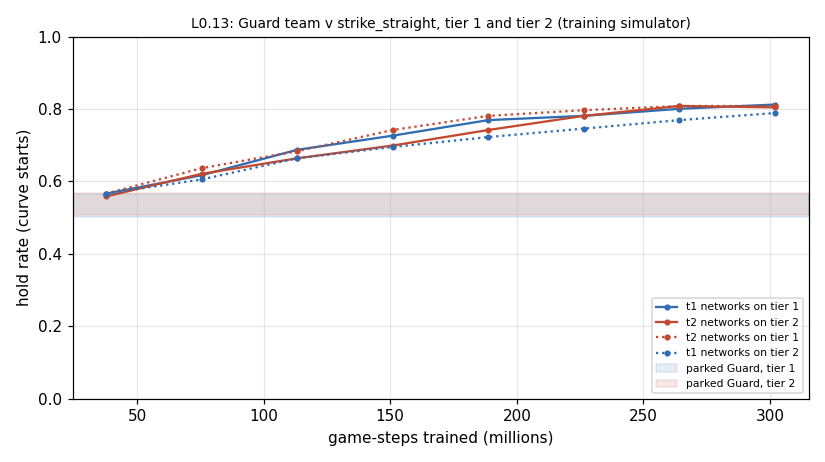
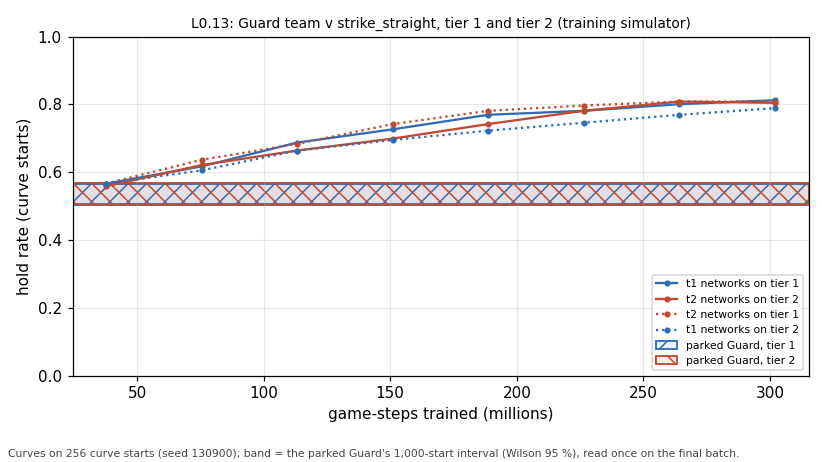
svg_training L0.13: QC fixes (readings bounded, physics-check readings, figure note and outlined bands)
curve_figure (test first, tests/test_ste_l013_figure.py) outlines and hatches both parked bands and notes on the image
that the curves use 256 curve starts (seed 130900) and the band the parked Guard's 1,000-start interval; the docs copy
is re-drawn from the arms' results.json. T53, PLAN and DISCUSSION bound the tier agreement to one seed, one opponent,
one start set. No number changed.

diff --git a/svg_training/scripts/ste_tier2_l013.py b/svg_training/scripts/ste_tier2_l013.py
@@ -960,15 +960,20 @@ def curve_figure(c1: list, c2: list, parked2: dict, parked1: dict, path: Path) -
         if pts:
             ax.plot([p["game_steps"] / 1e6 for p in pts], [p["rate"] for p in pts], style, marker="o", ms=3,
                     color=colour, label=name)
-    for parked, colour, name in ((parked1, "#2f6db3", "parked Guard, tier 1"), (parked2, "#c2492f", "parked Guard, tier 2")):
-        ax.axhspan(parked["ci"][0], parked["ci"][1], color=colour, alpha=0.12, label=name)
+    for parked, colour, name, hatch in ((parked1, "#2f6db3", "parked Guard, tier 1", "//"),
+                                        (parked2, "#c2492f", "parked Guard, tier 2", "\\\\")):
+        ax.axhspan(parked["ci"][0], parked["ci"][1], facecolor=matplotlib.colors.to_rgba(colour, 0.10),
+                   edgecolor=colour, linewidth=1.2, hatch=hatch, label=name)   # outlined: two overlapping bands stay visible
     ax.set_xlabel("game-steps trained (millions)")
     ax.set_ylabel("hold rate (curve starts)")
     ax.set_ylim(0, 1)
     ax.grid(alpha=0.3)
     ax.legend(fontsize=7, loc="lower right")
     ax.set_title("L0.13: Guard team v strike_straight, tier 1 and tier 2 (training simulator)", fontsize=9)
-    fig.tight_layout()
+    first = (c1 or c2)[0]
+    fig.tight_layout(rect=(0, 0.05, 1, 1))
+    fig.text(0.01, 0.01, f"Curves on {first['n']:,} curve starts (seed {first['seed']}); band = the parked Guard's "
+             f"{parked1['n']:,}-start interval (Wilson 95 %), read once on the final batch.", fontsize=7, color="#444444")
     fig.savefig(path)
     plt.close(fig)
     return path.name

diff --git a/svg_training/tests/test_ste_l013_figure.py b/svg_training/tests/test_ste_l013_figure.py
@@ -1,0 +1,36 @@
+"""The L0.13 learning-curve figure states what its curves and bands are read on, and draws both parked bands with an
+outline so that two overlapping bands stay visible (QC of T53)."""
+import sys
+
+import matplotlib
+matplotlib.use("Agg")
+from matplotlib.figure import Figure  # noqa: E402
+
+from _ste_tools import SCRIPTS
+
+sys.path.insert(0, str(SCRIPTS))
+import ste_tier2_l013 as driver  # noqa: E402
+
+
+def point(update, tier, networks, rate):
+    return {"update": update, "game_steps": update * 1_000_000, "tier": tier, "networks": networks, "k": int(rate * 256),
+            "n": 256, "rate": rate, "seed": 130900}
+
+
+def test_the_curve_figure_names_its_starts_and_outlines_both_bands(tmp_path, monkeypatch):
+    seen = {}
+
+    def capture(fig, path, *a, **k):
+        ax = fig.axes[0]
+        seen["texts"] = [t.get_text() for t in fig.texts]
+        seen["bands"] = [p for p in ax.patches if p.get_label().startswith("parked Guard")]
+    monkeypatch.setattr(Figure, "savefig", capture)
+    c1 = [point(6, 1, "t1", 0.56), point(12, 1, "t1", 0.62)]
+    c2 = [point(6, 2, "t2", 0.55), point(6, 1, "t2", 0.57), point(6, 2, "t1", 0.55)]
+    parked = {"k": 534, "n": 1000, "rate": 0.534, "ci": [0.503, 0.565]}
+    driver.curve_figure(c1, c2, parked, parked, tmp_path / "f.png")
+    note = " ".join(seen["texts"])
+    assert "256 curve starts (seed 130900)" in note and "1,000-start interval" in note
+    assert len(seen["bands"]) == 2
+    for band in seen["bands"]:
+        assert band.get_linewidth() >= 1.0 and band.get_edgecolor()[3] > 0.5     # an opaque outline

diff --git a/svg_training/ste_learning/PLAN.md b/svg_training/ste_learning/PLAN.md
@@ -93,7 +93,7 @@ follows §6. Detail of the tasks that existed in version 1 is in [WORK_BREAKDOWN
 | L0.11 | Screening sweep (INFO) | scripted Guards against scripted Strikes, 1,000 games per cell, tier 1. **Design: a base case plus one factor changed at a time**, not the full grid (the full grid is about 3,200 cells, roughly a day of GPU). Base case: 3v3, tag radius 1.6 m, zone radius 1.6 m, `guard_survives_tag_prob` 0, the 6.5 m lab arena; every Guard script against every Strike script (about 25 cells). Then, each alone against the base: team sizes 1v1, 2v1, 5v3; tag radius 1.2 / 1.4 / 1.8 m; zone radius one larger (PROPOSED 2.4 m); `guard_survives_tag_prob` 1 (the parent FIXED row requires both ends to be reported); the 7.5 m arena. About 250 cells; at the measured tier-1 rate with the filter on (about 90,000 game-steps a second, T8 and T41) roughly 2 hours (estimate). A screen only: it shortlists the rule variants for L0.12 | 3 | lead picks the shortlist and records why, before L0.12 |
 | L0.12 | Best-response test: is the game worth learning? | for each shortlisted variant (at most 3), two short trainings on tier 1, each capped at 1 GPU-h (about 300 M game-steps at 3v3, the point where pilot P1b already held 0.758): an **exploiter Strike** against the best scripted Guard, and an **exploiter Guard** against the best scripted Strike. Gate written first (limits PROPOSED by the lead): the variant is **Guard-trivial** if the exploiter Strike's reach rate stays below 0.2 (Wilson upper bound); **Strike-trivial** if the exploiter Guard's hold rate stays below 0.2; **worth learning** otherwise. Controls: an untrained exploiter (must do worse than the trained one) and the parked Guard. **Gate changed by the lead before any run (LEAD CALL 21 Nov 2026):** T44's best scripts already sit far from 0.2 at tag 1.2 m and 1.4 m, so the band is read on the better of script and trained exploiter for each side, and the measured quantity is the exploiter's gain over the best script on T44's own starts, with Wilson intervals; a Strike recipe fallback (the game's distance shaping) is pre-registered and is used when neither pilot recipe probe shows a reach (the probes no longer stop the Strike runs). **LEAD CALL 21 Nov 2026 (QC N-1):** the learner positive control is **run 0**, the chosen Strike recipe trained against the parked Guard at the budget and cap of a run of record and read at pre-listed checkpoints (PASS, FAIL at the full budget, INCONCLUSIVE at the cap); the Strike runs launch only if run 0 reads PASS (a FAIL is never overridden; the Strike side is then INCONCLUSIVE: the trainer did not learn the easy Strike task at the run budget); the Guard runs do not depend on it: gate file `configs/ste_l012/gates.toml`. **Trainer built and verified on the CPU (21 Nov 2026):** a new driver, `scripts/ste_exploit_l012.py` (not `train_standin.py`), trains either side at 3v3 on the committed L0.11 game files with the tag on, one decision per 0.6 s, under the run contract; its evaluation replays T44's cells game for game on the CPU. The 6 GPU-h and the hours below stay estimates until the GPU pilot. **DONE 21 Nov 2026 (T46 INFO, T47 ABORTED; 3.37 GPU-h):** run 0 PASS; base and tag 1.4 m worth learning on both sides (trained Strike team +0.444 and +0.412 over the best script, trained Guard team +0.105 and +0.075); tag 1.2 m incomplete (one side only: the trained Strike run stopped one update short, T47; its scripts alone already sit above the gate's 0.2 band on both sides, so neither side is trivial by that band); observed in the training simulator. **L0.12b Bubble tag check DONE 21 Nov 2026** (owner-approved tag 1.15 m = the filter's 1.10 m keep-out + 0.05 m; charged to L0.12, 1.59 GPU-h; T50 screen INFO, T51 INFO, T52 ABORTED): scripts 645 / 355 as at 1.2 m; run 0 PASS; trained Guard team 466, below the script (weak); the Strike run stopped two updates short (cap sized from other rule sets); tag 1.15 m incomplete: one side only | 6 | **G0** |
 | L0.2 | Tier 2 speed in contested play | game-steps per second on the 5090, tier 2 and tier 1, 3v3 (and the G0 candidate sizes), with a learner in the loop and both teams playing (not random actions), at 1,024 / 2,048 / 4,096 games; alone on the GPU. **DONE 21 Nov 2026 (T48 INFO, 0.294 GPU-h; cap 1.4 set before the run):** on the RTX 5070 Ti laptop, 3v3 training rate tier 1 51k–208k and tier 2 10k–67k game-steps/s from 1,024 to 8,192 / 16,384 games at once; tier 2 4.9–5.3× slower at 3v3; every point fitted; observed in the training simulator | 1.5 | P3 |
-| L0.13 | Does tier 2 train at all? | the STE Guard policy's recipe (pilot P1b) trained on tier 2, beside a fresh tier-1 control with **the same number of game-steps and the same number of games at once**. Tier 2 cannot hold P1b's 32,768 games at once (it used 5–7 GB at 4,096 games, T12), so the games-at-once figure is the largest that L0.2 shows fits (PROPOSED 8,192). The step count is fixed in the gate before the run: 300 M game-steps if L0.2's rate lets both arms fit the cap, otherwise the largest count that fits. Needs a small new probe, because `train_standin --game nus_hangar` refuses the physics drone. Gate: tier 2 "trains" if its final hold rate (1,000 games, Wilson lower bound) is above the parked Guard's upper bound on tier 2; reaching the cap before the step count is itself a result (too slow). **LEAD CALL 21 Nov 2026 (the game):** the task moves from P1b's recipe in the hangar game to the STE game: the L0.12 Guard run's recipe (the T41 recipe, one decision per 0.6 s) on the L0.11 base game (tag 1.6 m, 3v3), exploiter Guard team against strike_straight, because L0.12 is the STE track's own learning test and its tier 1 numbers exist (base Guard 913 of 1,000 holds at 554 M game-steps, 16,384 games at once, T46); the gate is kept in substance. **Built and verified on the CPU (21 Nov 2026):** gate file `configs/ste_l013/gates.toml` (written before any run: both arms 16,384 games at once, L0.2's largest tier 2 fit, one seed, 48 updates = 301,989,888 game-steps; caps tier 1 0.75 h, tier 2 2.5 h with the final phase reserved, so a slow arm reads TOO_SLOW, never ABORTED); driver `scripts/ste_tier2_l013.py` (arm t1, then arm t2 headless on one Isaac world whose first games carry every tier 2 evaluation; physics agreement check C-1a on every launch; tier 1 replay of T44's parked-Guard cell; t1's networks also scored on tier 2) and record writer `scripts/make_ste_l013_record.py`; a smoke gate file (one update per arm, full size) comes first. GPU hours stay projections (about 1.6 h tier 2, 0.3 h tier 1) until the smoke. **DONE 21 Nov 2026 (T53 PASS, 1.53 GPU-h; on the L0.12 base game and Guard recipe, LEAD CALL):** at the same 302 M game-steps tier 2 holds 832 of 1,000 (parked 538) and tier 1 836 (parked 534); each arm's networks move to the other tier within 22 games; tier 2 about 5× slower per game-step (1.29 against 0.24 GPU-h); observed in the training simulator | 6 | P3; **G0**; after L0.2 |
+| L0.13 | Does tier 2 train at all? | the STE Guard policy's recipe (pilot P1b) trained on tier 2, beside a fresh tier-1 control with **the same number of game-steps and the same number of games at once**. Tier 2 cannot hold P1b's 32,768 games at once (it used 5–7 GB at 4,096 games, T12), so the games-at-once figure is the largest that L0.2 shows fits (PROPOSED 8,192). The step count is fixed in the gate before the run: 300 M game-steps if L0.2's rate lets both arms fit the cap, otherwise the largest count that fits. Needs a small new probe, because `train_standin --game nus_hangar` refuses the physics drone. Gate: tier 2 "trains" if its final hold rate (1,000 games, Wilson lower bound) is above the parked Guard's upper bound on tier 2; reaching the cap before the step count is itself a result (too slow). **LEAD CALL 21 Nov 2026 (the game):** the task moves from P1b's recipe in the hangar game to the STE game: the L0.12 Guard run's recipe (the T41 recipe, one decision per 0.6 s) on the L0.11 base game (tag 1.6 m, 3v3), exploiter Guard team against strike_straight, because L0.12 is the STE track's own learning test and its tier 1 numbers exist (base Guard 913 of 1,000 holds at 554 M game-steps, 16,384 games at once, T46); the gate is kept in substance. **Built and verified on the CPU (21 Nov 2026):** gate file `configs/ste_l013/gates.toml` (written before any run: both arms 16,384 games at once, L0.2's largest tier 2 fit, one seed, 48 updates = 301,989,888 game-steps; caps tier 1 0.75 h, tier 2 2.5 h with the final phase reserved, so a slow arm reads TOO_SLOW, never ABORTED); driver `scripts/ste_tier2_l013.py` (arm t1, then arm t2 headless on one Isaac world whose first games carry every tier 2 evaluation; physics agreement check C-1a on every launch; tier 1 replay of T44's parked-Guard cell; t1's networks also scored on tier 2) and record writer `scripts/make_ste_l013_record.py`; a smoke gate file (one update per arm, full size) comes first. GPU hours stay projections (about 1.6 h tier 2, 0.3 h tier 1) until the smoke. **DONE 21 Nov 2026 (T53 PASS, 1.53 GPU-h; on the L0.12 base game and Guard recipe, LEAD CALL):** at the same 302 M game-steps tier 2 holds 832 of 1,000 (parked 538) and tier 1 836 (parked 534); each arm's networks move to the other tier within 22 games (one training seed, one opponent, one start set (T44's first 1,000)); tier 2 about 5× slower per game-step (1.29 against 0.24 GPU-h); observed in the training simulator | 6 | P3; **G0**; after L0.2 |
 | L0.3 | STE Guard policy in tier 2 without retraining | hold rate of the tier-1-trained policy (829 of 1,000, T41) on the Isaac Lab drone, same starts, parked Guard as control (row 6: Strike reaches 524, T24). **DONE 21 Nov 2026 (T49 INFO, 1.240 GPU-h; cap 1.4 set before the run):** 856 of 1,000 holds on tier 2 against 831 on tier 1 (paired lost 51 / gained 76); higher on tier 2 in this set (856 v 831; one policy, one opponent, one start set; p = 0.033 uncorrected), no claim of a general difference; parked control 525 reaches; observed in the training simulator | 1.5 | P3 |
 | L0.4 | Side-by-side Starling render | the Isaac Lab Starling beside the AirStack simulator's, with and without team paint | 0.2 | P4 |
 | L0.5 | Starling video look fix | clips keep the Starling's own look; team colour as a small marker | 0.3 | owner looks at stills (D9) |

diff --git a/svg_training/records/2026-11-21_ste_l013_tier2_trains_record.md b/svg_training/records/2026-11-21_ste_l013_tier2_trains_record.md
@@ -4,7 +4,7 @@ Simulator: training simulator: tier 1 (fast engine; Starling layer: commander co
 
 ## Run notes
 
-- **Never suspend the machine during a GPU job**: the cap clock and the GPU-hour ledger are wall clock less the owner's gpu_pause.sh pauses only. Say here whether the machine was suspended during the runs.
+- Suspend: see the 'Suspend' note below.
 - **The game** (LEAD CALL 21 Nov 2026): PLAN.md row L0.13 named pilot P1b's recipe in the hangar game; the lead moved the task to the STE game: the L0.12 Guard run's recipe (T41's, one decision per 0.6 s, terminal reward only) on the L0.11 base game (tag 1.6 m, 3v3), exploiter Guard team against strike_straight. The PLAN's gate is kept in substance.
 - **One procedure in both arms**: same games at once, game-step budget, seed and evaluation starts; one Isaac world per process, so tier 2 evaluations play on a view of the training world, and after every evaluation the training games restart afresh in both arms.
 - **Resume** (by design): networks, optimisers, scalers, counters and the torch random state are restored at the last update boundary; the training games restart afresh, so a resumed arm is not identical to an unbroken one.
@@ -71,23 +71,24 @@ Scale (INFO): L0.12's base Guard held 913/1000 on tier 1 at 553,648,128 game-ste
 ## Run notes added by the lead
 
 - **Figure and clips.** Learning curves of both arms, each arm's networks on its own tier and on the other tier, with the
-  parked Guard's interval as a band: [learning_curves.png](../docs/figures/ste_l013/learning_curves.png) (a copy of the
-  verdict's figure, made by `scripts/ste_tier2_l013.py verdict`). The curves are read on 256 curve starts (seed
+  parked Guard's interval as a band: [learning_curves.png](../docs/figures/ste_l013/learning_curves.png) (re-drawn after
+  QC by the driver's own `curve_figure` from the two arms' results.json: both bands outlined and hatched, and a note on the
+  image saying what the curves and bands are read on; the verdict folder keeps the first drawing). The curves are read on 256 curve starts (seed
   130900), not T44's 1,000 scoring starts, so their end points (about 0.79–0.81) differ from the 832 and 836 above. The four 2-D clips, with the height panel:
   [docs/media/ste_l013](../docs/media/ste_l013/README.md).
 - **(a) The game** (LEAD CALL 21 Nov 2026): the lead moved L0.13 from the PLAN's pilot P1b hangar game to the L0.12 base
   game and Guard recipe, so the result is comparable with T46's base Guard (913 of 1,000 at 553,648,128 game-steps).
-- **(b) PASS = tier 2 learns.** At the same 301,989,888 game-steps tier 2 and tier 1 reach about the same hold rate (832
+- **(b) PASS = tier 2 learns.** At the same 301,989,888 game-steps tier 2 and tier 1 reach about the same hold rate on one training seed, one opponent, one start set (T44's first 1,000) (832
   against 836 of 1,000, each far above its parked Guard: 538 and 534), and each arm's networks move to the other tier with
   at most 22 games' difference (t2 networks 846 on tier 1, 832 on tier 2; t1 networks 836 on tier 1, 814 on tier 2).
-  Lead's reading; one training seed, one opponent.
+  Lead's reading; one training seed, one opponent, one start set (T44's first 1,000).
 - **(c) Speed.** Tier 2 is about 5× slower per game-step (median 70,468 against 360,226 game-steps per second), so the
   same 302 M game-steps took 1.29 GPU-h on tier 2 against 0.24 on tier 1 (whole arms; tier 2 also plays 24 curve reads
   to tier 1's 8). Training time alone: 4,292 s against 826 s (5.2×).
 - **(d) Physics check.** The tier 2 physics agreement control (C-1a) read 0.0166 m at 16,384 games (limit 0.02 m, PASS);
-  the 3,000-game view of the same world read 0.0164 m; T48 read 0.0036 m at 1,024 games and T49 0.0028 m at 1,000.
-  The cause of the larger reading here is not separated (world size, the recorded inputs, or the number of games
-  compared); the lead's reading is that it grows with the games compared. The margin is 0.0034 m: a larger world (for
+  the 3,000-game view of the same world read 0.0164 m. Readings so far: 0.0036 m (T48, 1,024 games, other
+  inputs) and 0.0028 m (T49), 0.0164 m at 3,000 and 0.0166 m at 16,384 games in this run: it rises between 1,024 and
+  3,000 and is flat after; cause not separated (lead's reading pending). The margin is 0.0034 m: a larger world (for
   example on the 5090) may fail this gate.
 - **(e) Upsets and non-finite values** (evaluation batches and curve reads; the training log does not count them).
   Upset (tumbled) games: 0 in every evaluation batch and curve read of both arms, trained and parked, on both tiers.
@@ -103,7 +104,9 @@ Scale (INFO): L0.12's base Guard held 913/1000 on tier 1 at 553,648,128 game-ste
   t2 4,638 s against 4,642 s (the 849 s and 4,627 s above come from results.json, written before the final write). GPU-hours: t1 0.237, t2 1.289 (the 1.527 in the ledger row); with the smokes 1.590.
 - **Commit.** The arms name `fa3281ba`, which became `1ba631e8` when the branch was rebased on development.
 - Edited after the first write (same session, before any merge; no number changed): the physics-check reading, the
-  curve starts, whole-arm hours, the scope of the upset counts and the effective-time sources stated.
+  curve starts, whole-arm hours, the scope of the upset counts and the effective-time sources stated. Again after QC:
+  the readings bounded to one seed, one opponent and one start set; the physics-check readings listed; the figure
+  re-drawn; the template suspend line replaced.
 
 ## Ledger row
 

diff --git a/svg_training/ste_learning/DISCUSSION_2026-11-19_20.md b/svg_training/ste_learning/DISCUSSION_2026-11-19_20.md
@@ -440,12 +440,12 @@ From record T53 (PASS), observed in the training simulator; not a flight. Figure
 [learning_curves.png](../docs/figures/ste_l013/learning_curves.png); clips: [docs/media/ste_l013](../docs/media/ste_l013/README.md).
 
 - **Tier 2 learns.** The L0.12 base Guard recipe, trained on the Isaac Lab drone for 302 M game-steps, holds 832 of
-  1,000 against straight Strikes on tier 2 (parked Guards 538); the same recipe on tier 1 holds 836 (parked 534).
-- **The two tiers agree on this task** (lead's reading; one seed, one opponent): each arm's networks move to the other
+  1,000 against straight Strikes on tier 2 (parked Guards 538); the same recipe on tier 1 holds 836 (parked 534), on one training seed, one opponent, one start set (T44's first 1,000).
+- **The two tiers agree on this task** (lead's reading; one training seed, one opponent, one start set (T44's first 1,000)): each arm's networks move to the other
   tier within 22 games (846 / 832 and 836 / 814), and the learning curves lie close together (read on 256 curve starts,
   so they end near 0.79–0.81 rather than at the 1,000-start scores).
 - **Cost.** Tier 2 is about 5× slower per game-step (70.5 k against 360 k game-steps per second on the laptop GPU):
   1.29 GPU-h against 0.24 GPU-h for the whole arms (training alone 4,292 s against 826 s). This bears on D3 (where to train), with L0.2's speeds (section 8).
-- **Physics check margin: 0.0166 m of a 0.02 m limit** at 16,384 games (0.0036 m at 1,024 in T48, 0.0028 m at 1,000 in
-  T49; cause not separated), so a larger world may fail this gate. No tumbled game and no non-finite physics value in
+- **Physics check margin: 0.0166 m of a 0.02 m limit** at 16,384 games (0.0036 m at 1,024 games in T48 with other inputs,
+  0.0028 m in T49, 0.0164 m at 3,000 in this run: it rises between 1,024 and 3,000 and is flat after; cause not separated), so a larger world may fail this gate. No tumbled game and no non-finite physics value in
   any evaluation batch or curve read.
